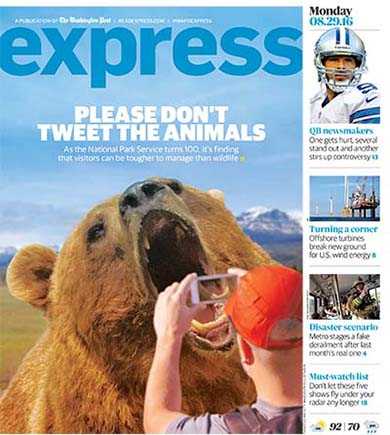
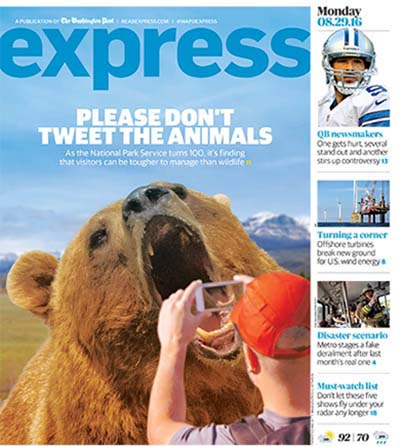
switched around photos

diff --git a/index.html b/index.html
@@ -143,8 +143,8 @@
 
   <div class="single">
     <section>
-      <img src="image/expresssports2.jpg" alt="sitting pretty" />
-      <p>Washington Post Express, Sitting Pretty, September 2016</p>
+      <img src="image/expresscover2.jpg" alt="animals" />
+      <p>Washington Post Express, Please Don't Tweet the Animals, August 2016</p>
     </section>
   </div>
 
